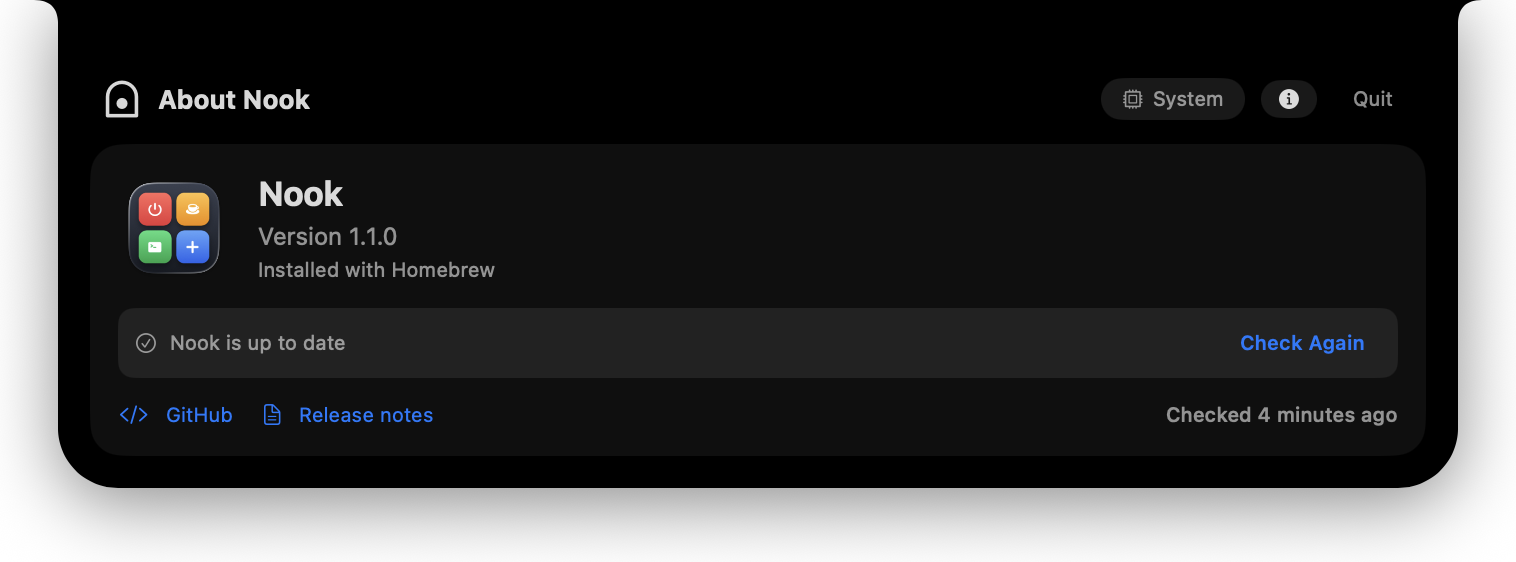
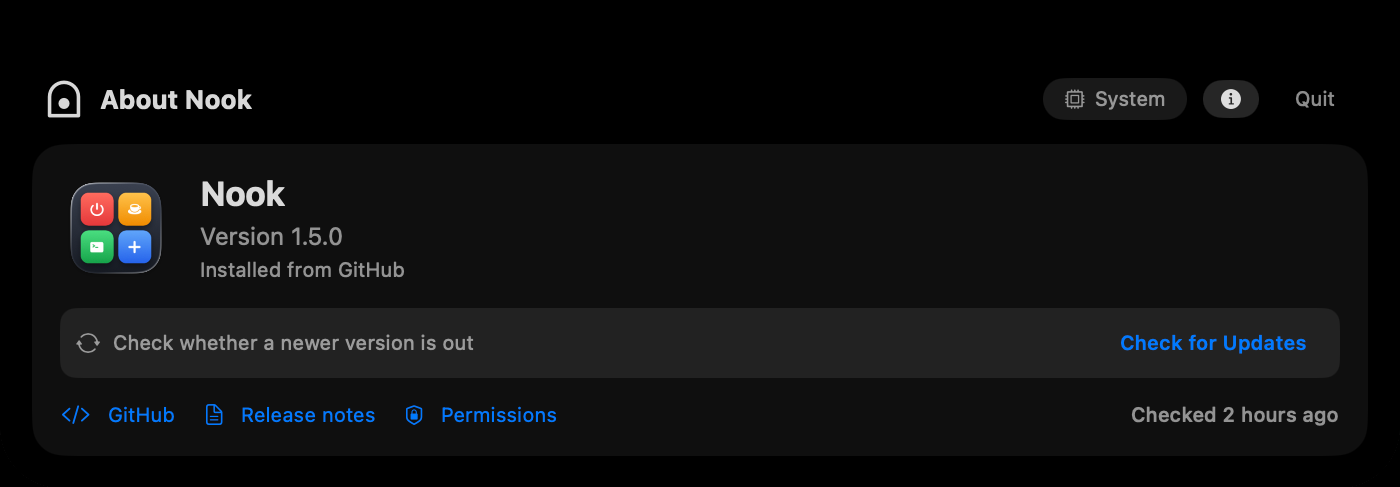
docs: refresh the README for the Music card and Permissions page
New screenshots of the island, the System page and the About page, and
text for the Pomodoro presets, the Music card and the Permissions page.

Changed region(s): [[0.0, 0.0, 1.0, 1.0], [0.7986, 0.5852, 0.9214, 0.6468]]

diff --git a/README.md b/README.md
@@ -14,7 +14,7 @@
 Nook lives in your menu bar. Click its icon and a panel drops down from the notch, like the Dynamic Island, with a Pomodoro timer, a shutdown timer, background music, screen recording, your Bluetooth devices and your Mac's vitals. Click away or press Esc and it folds back up.
 
 <p align="center">
-  <img src="screenshots/utilities.png" width="720" alt="Nook's Utilities page: Pomodoro, Power Off, Music, Screen Recording and Bluetooth tiles">
+  <img src="screenshots/utilities.png" width="720" alt="Nook's island: the Pomodoro card counting down a focus sprint, the Music card playing a station with its artwork, and the Power Off, Screen Recording and Bluetooth tiles">
 </p>
 
 ## Install
@@ -34,12 +34,13 @@ Nook needs an Apple silicon Mac with macOS 13 or later; screen recording needs m
 
 | | |
 |---|---|
-| ⏱ **Pomodoro** | Focus sprints with a live countdown ring, then a break as a notification or a full-screen overlay. Pauses while your Mac is locked or asleep. |
+| ⏱ **Pomodoro** | Focus sprints of 20, 25, 50 minutes or your own length, with a live countdown ring, then a break as a notification or a full-screen overlay. Pauses while your Mac is locked or asleep. |
 | ⏻ **Power Off** | Drag along a ruler to shut your Mac down in 5 minutes to 2 hours. Cancel in one click. |
-| 🎵 **Music** | Study, sleep, focus and jazz live streams from YouTube, playing in the background. Search YouTube or play your own playlists. |
+| 🎵 **Music** | Study, sleep, focus and jazz live streams from YouTube on a card with the video's artwork. Search YouTube, play your own playlists, autoplay related videos, and pick the music back up once your Mac goes quiet. |
 | ⏺ **Screen Recording** | One screen, all screens or an area, with system audio and your microphone. Pause, resume and save as `.mov`. |
 | 📶 **Bluetooth** | Your paired devices with battery levels, including AirPods left, right and case. Connect or disconnect in one click. |
 | 📊 **System** | CPU, GPU, memory, battery, network, disk space and power draw at a glance. |
+| 🔐 **Permissions** | Every macOS permission Nook uses, whether it's allowed, and a button to allow it or open System Settings. |
 | ℹ **About & updates** | Your version, how Nook was installed, and one-click updates from GitHub. |
 
 <p align="center">
@@ -47,7 +48,7 @@ Nook needs an Apple silicon Mac with macOS 13 or later; screen recording needs m
 </p>
 
 <p align="center">
-  <img src="screenshots/about.png" width="720" alt="Nook's About page: version 1.1.0, installed with Homebrew, up to date">
+  <img src="screenshots/about.png" width="720" alt="Nook's About page: version 1.5.0, a Check for Updates button, and links to GitHub, the release notes and Permissions">
 </p>
 
 ## Features in detail
@@ -56,6 +57,7 @@ Nook needs an Apple silicon Mac with macOS 13 or later; screen recording needs m
 <summary><strong>Pomodoro</strong></summary>
 
 - A colorful card in the island: press **Start focusing**, then watch the countdown ring: tomato red while you focus, mint green on a break, grey while paused.
+- If macOS has notifications turned off for Nook, the tile says so, since Notification-style breaks would pass unseen, and **Permissions** takes you to the fix.
 - Focus for 20, 25 or 50 minutes, then break for 2, 5 or 10, or pick **Custom** and set your own with − and +. Changing the focus length keeps the time you've already focused.
 - **Break now** starts a break early, **Snooze 5m** pushes the next one back, and **Back to focus** ends a break.
 - Two break styles: a **Notification** with Start break, Snooze and Skip actions, or a **Full screen** blurred overlay with a countdown. Press Esc to get back to focus; the screen is never locked.
@@ -75,6 +77,7 @@ Nook needs an Apple silicon Mac with macOS 13 or later; screen recording needs m
 <details>
 <summary><strong>Music</strong></summary>
 
+- The Music tile is a colored card with the artwork of what's playing, a ☆ to save it as a station, and the seek bar along its bottom.
 - Pick a station: **Study**, **Sleep**, **Focus** or **Jazz**. Each plays a current live stream, so it never goes stale.
 - Press 🔍 to search YouTube. Filter by **Live**, **Playlists** or **Long (1h+)**, choose with ↑↓ and press Return to play, or ⌘Return to also save it as a station. Your last 10 searches stay listed.
 - When a video or playlist ends with nothing after it, Nook plays a related video next, like YouTube's autoplay, and ⏩ does the same on a single video. Turn it off with **Autoplay Related Videos** in the station menu. Live stations don't autoplay.
@@ -128,9 +131,18 @@ Nook needs an Apple silicon Mac with macOS 13 or later; screen recording needs m
 
 </details>
 
+<details>
+<summary><strong>Permissions</strong></summary>
+
+- Open it from **About › Permissions**, or from the **Permissions** button a tile shows when it's missing access.
+- Each permission shows **Allowed**, **Not allowed** or **Not asked yet**. **Allow** brings up the macOS prompt; **Settings** opens the right pane of System Settings.
+- The page re-reads every status every 2 seconds while it's open, so a change made in System Settings shows up on its own. Screen Recording is the exception: macOS applies it after you quit and reopen Nook.
+
+</details>
+
 ### Permissions
 
-macOS asks for each of these the first time Nook needs it:
+macOS asks for each of these the first time Nook needs it, and **About › Permissions** shows where each one stands:
 
 | Permission | Why |
 |---|---|
